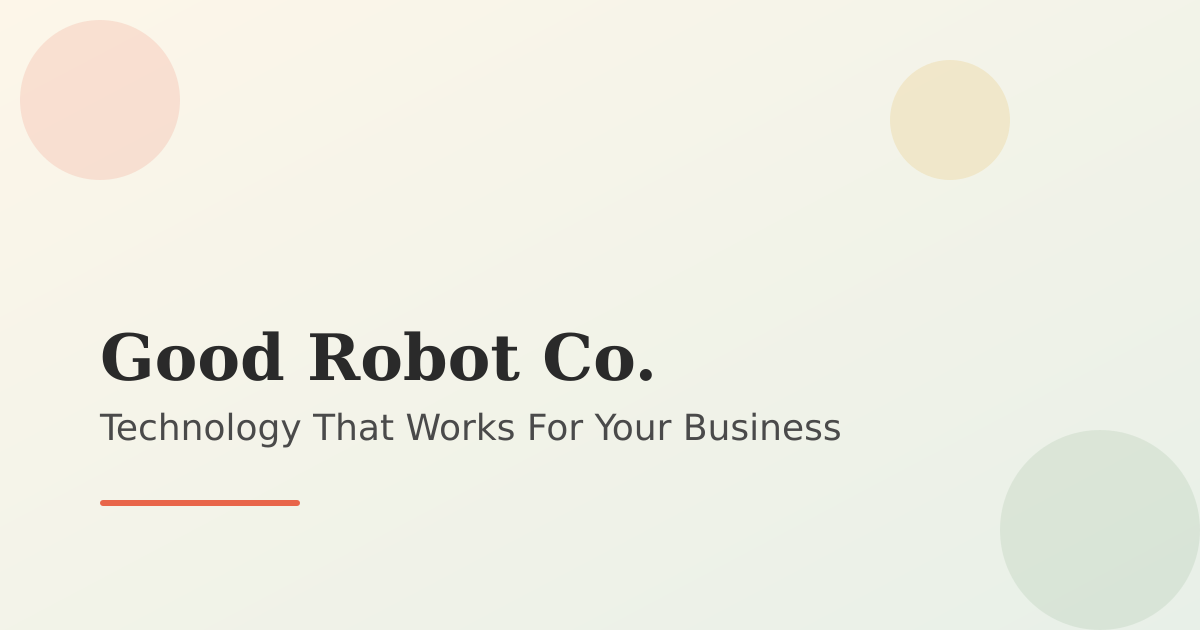
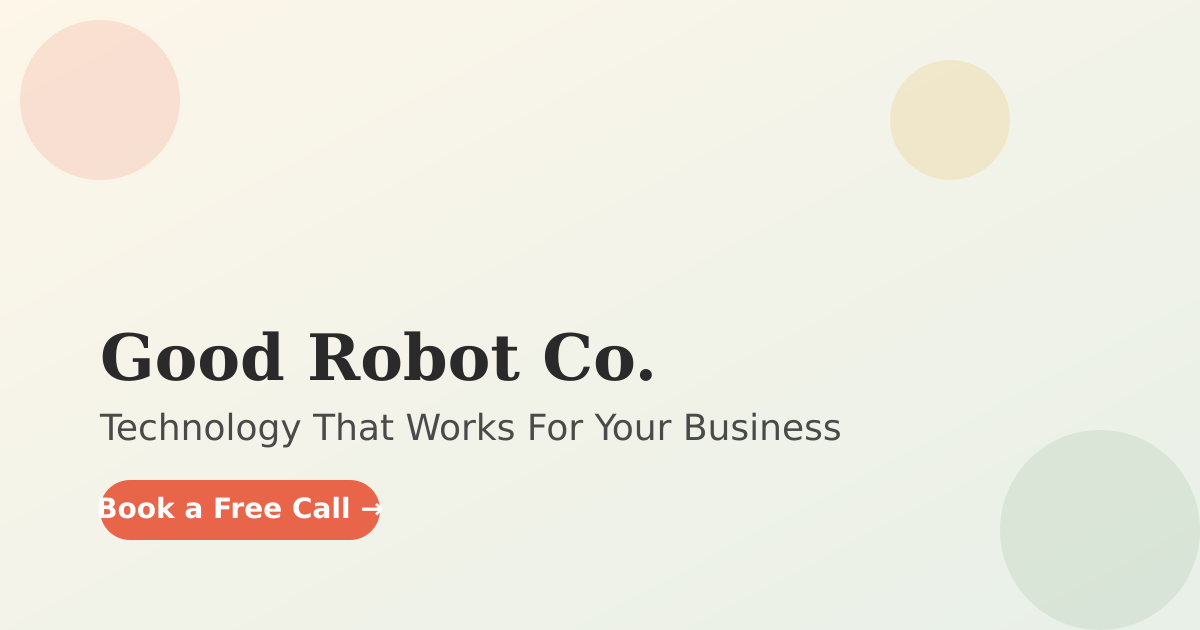
Improve Open Graph metadata based on feedback (#7)
* Improve OG metadata based on opengraph.xyz feedback

Address two issues identified by opengraph.xyz:
1. Add call-to-action button to OG image ("Book a Free Call →")
2. Expand meta descriptions to optimal 110-160 character range

Changes:
- Update og-image.svg with prominent CTA button
- Expand homepage description: 94 → 127 characters
- Expand blog description: 102 → 129 characters
- Update og-image-preview.html to reflect CTA addition

Note: SVG updated, PNG needs to be regenerated. Open og-image-preview.html
and save the image as PNG to public/og-image.png.

* Include og-image.png (converted from og-image.svg)

Changed region(s): [[0.0617, 0.754, 0.3392, 0.8746]]

diff --git a/app/layout.tsx b/app/layout.tsx
@@ -23,11 +23,11 @@ const fraunces = Fraunces({
 
 export const metadata: Metadata = {
   title: 'Good Robot Co. | Technology That Works For Your Business',
-  description: 'Technology consulting for small and mid-size businesses. Honest guidance, practical solutions.',
+  description: 'Technology consulting for small and mid-size businesses. Honest guidance, practical solutions, and the right tech approach for your needs.',
   metadataBase: new URL('https://goodrobotco.com'),
   openGraph: {
     title: 'Good Robot Co. | Technology That Works For Your Business',
-    description: 'Technology consulting for small and mid-size businesses. Honest guidance, practical solutions.',
+    description: 'Technology consulting for small and mid-size businesses. Honest guidance, practical solutions, and the right tech approach for your needs.',
     url: 'https://goodrobotco.com',
     siteName: 'Good Robot Co.',
     locale: 'en_US',
@@ -44,7 +44,7 @@ export const metadata: Metadata = {
   twitter: {
     card: 'summary_large_image',
     title: 'Good Robot Co. | Technology That Works For Your Business',
-    description: 'Technology consulting for small and mid-size businesses. Honest guidance, practical solutions.',
+    description: 'Technology consulting for small and mid-size businesses. Honest guidance, practical solutions, and the right tech approach for your needs.',
     images: ['/og-image.png'],
   },
 }

diff --git a/app/blog/page.tsx b/app/blog/page.tsx
@@ -5,10 +5,10 @@ import CTA from '@/components/CTA'
 
 export const metadata: Metadata = {
   title: 'Blog | Good Robot Co.',
-  description: 'Practical insights on technology, AI, and building smarter systems for small and mid-size businesses.',
+  description: 'Practical insights on technology, AI, and building smarter systems for small and mid-size businesses. No jargon, just actionable advice.',
   openGraph: {
     title: 'Blog | Good Robot Co.',
-    description: 'Practical insights on technology, AI, and building smarter systems for small and mid-size businesses.',
+    description: 'Practical insights on technology, AI, and building smarter systems for small and mid-size businesses. No jargon, just actionable advice.',
     url: 'https://goodrobotco.com/blog',
     type: 'website',
     images: [
@@ -23,7 +23,7 @@ export const metadata: Metadata = {
   twitter: {
     card: 'summary_large_image',
     title: 'Blog | Good Robot Co.',
-    description: 'Practical insights on technology, AI, and building smarter systems for small and mid-size businesses.',
+    description: 'Practical insights on technology, AI, and building smarter systems for small and mid-size businesses. No jargon, just actionable advice.',
     images: ['/og-image.png'],
   },
 }
